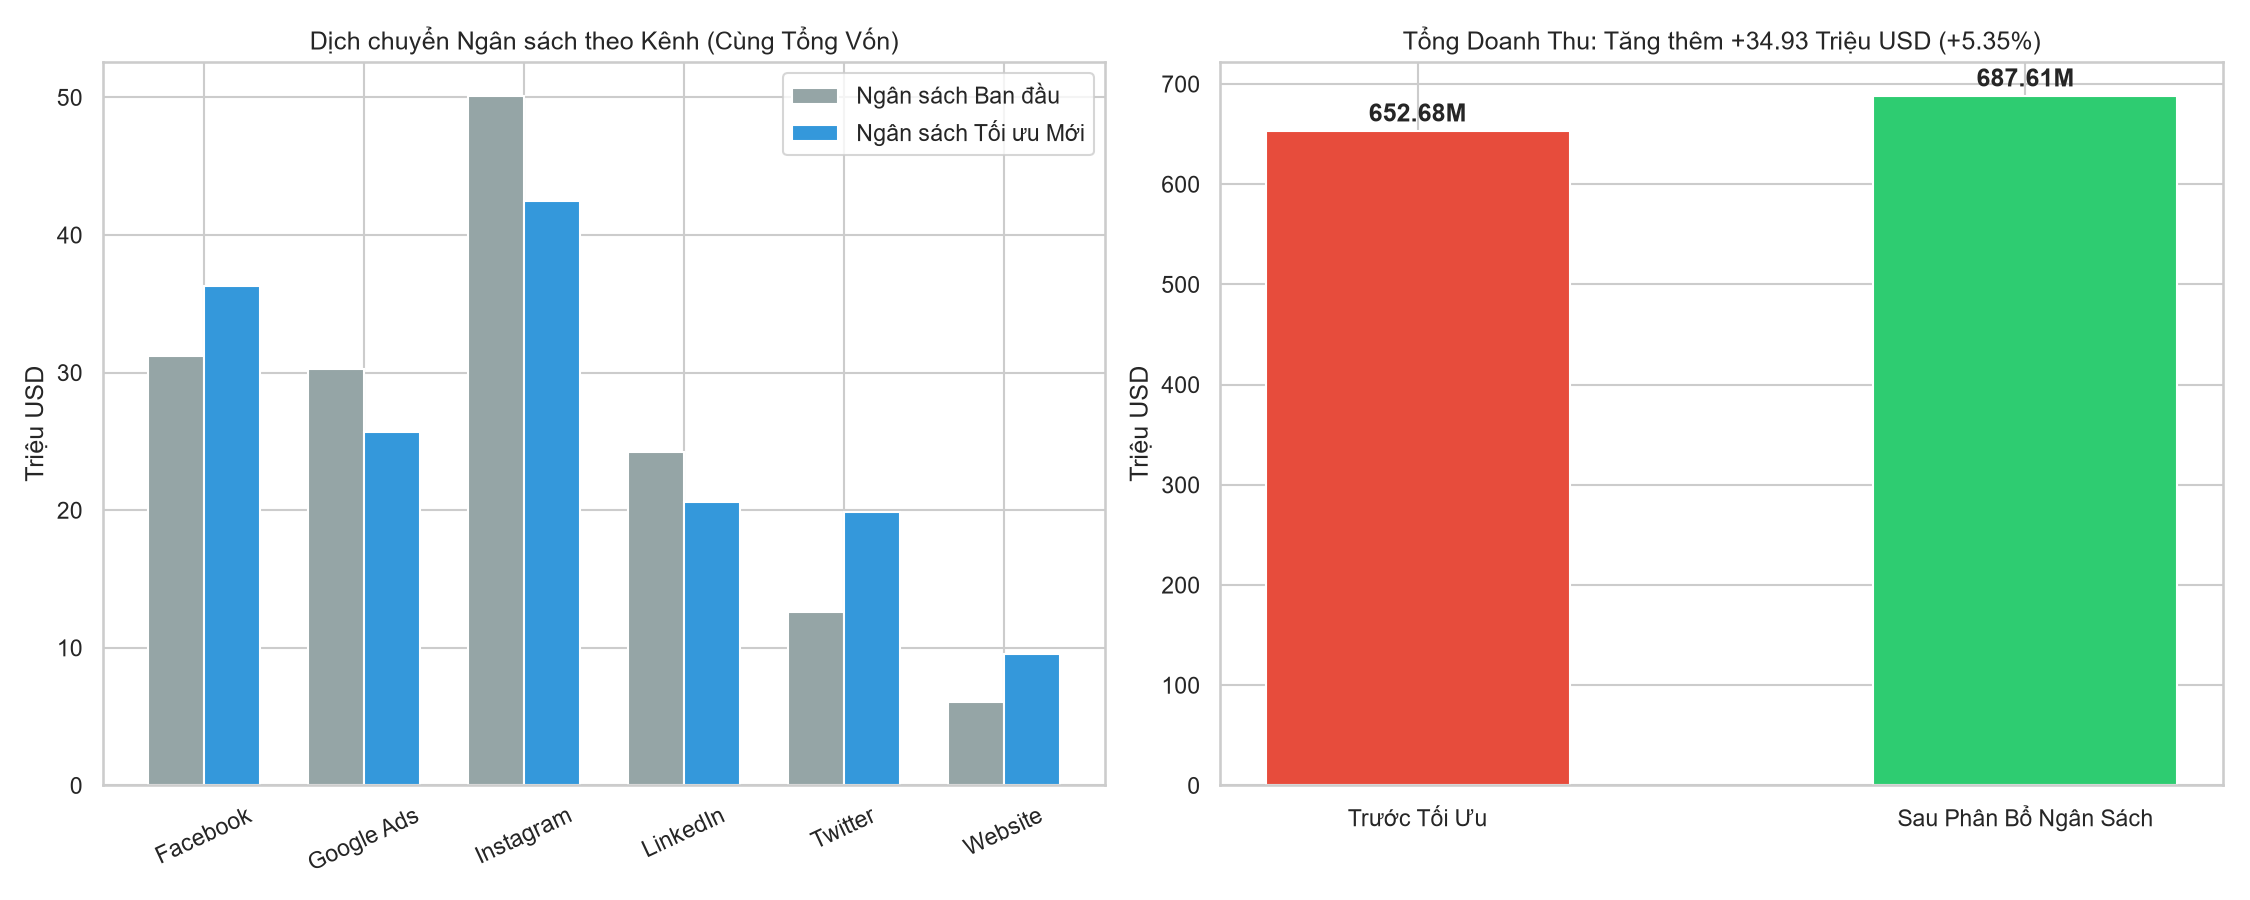
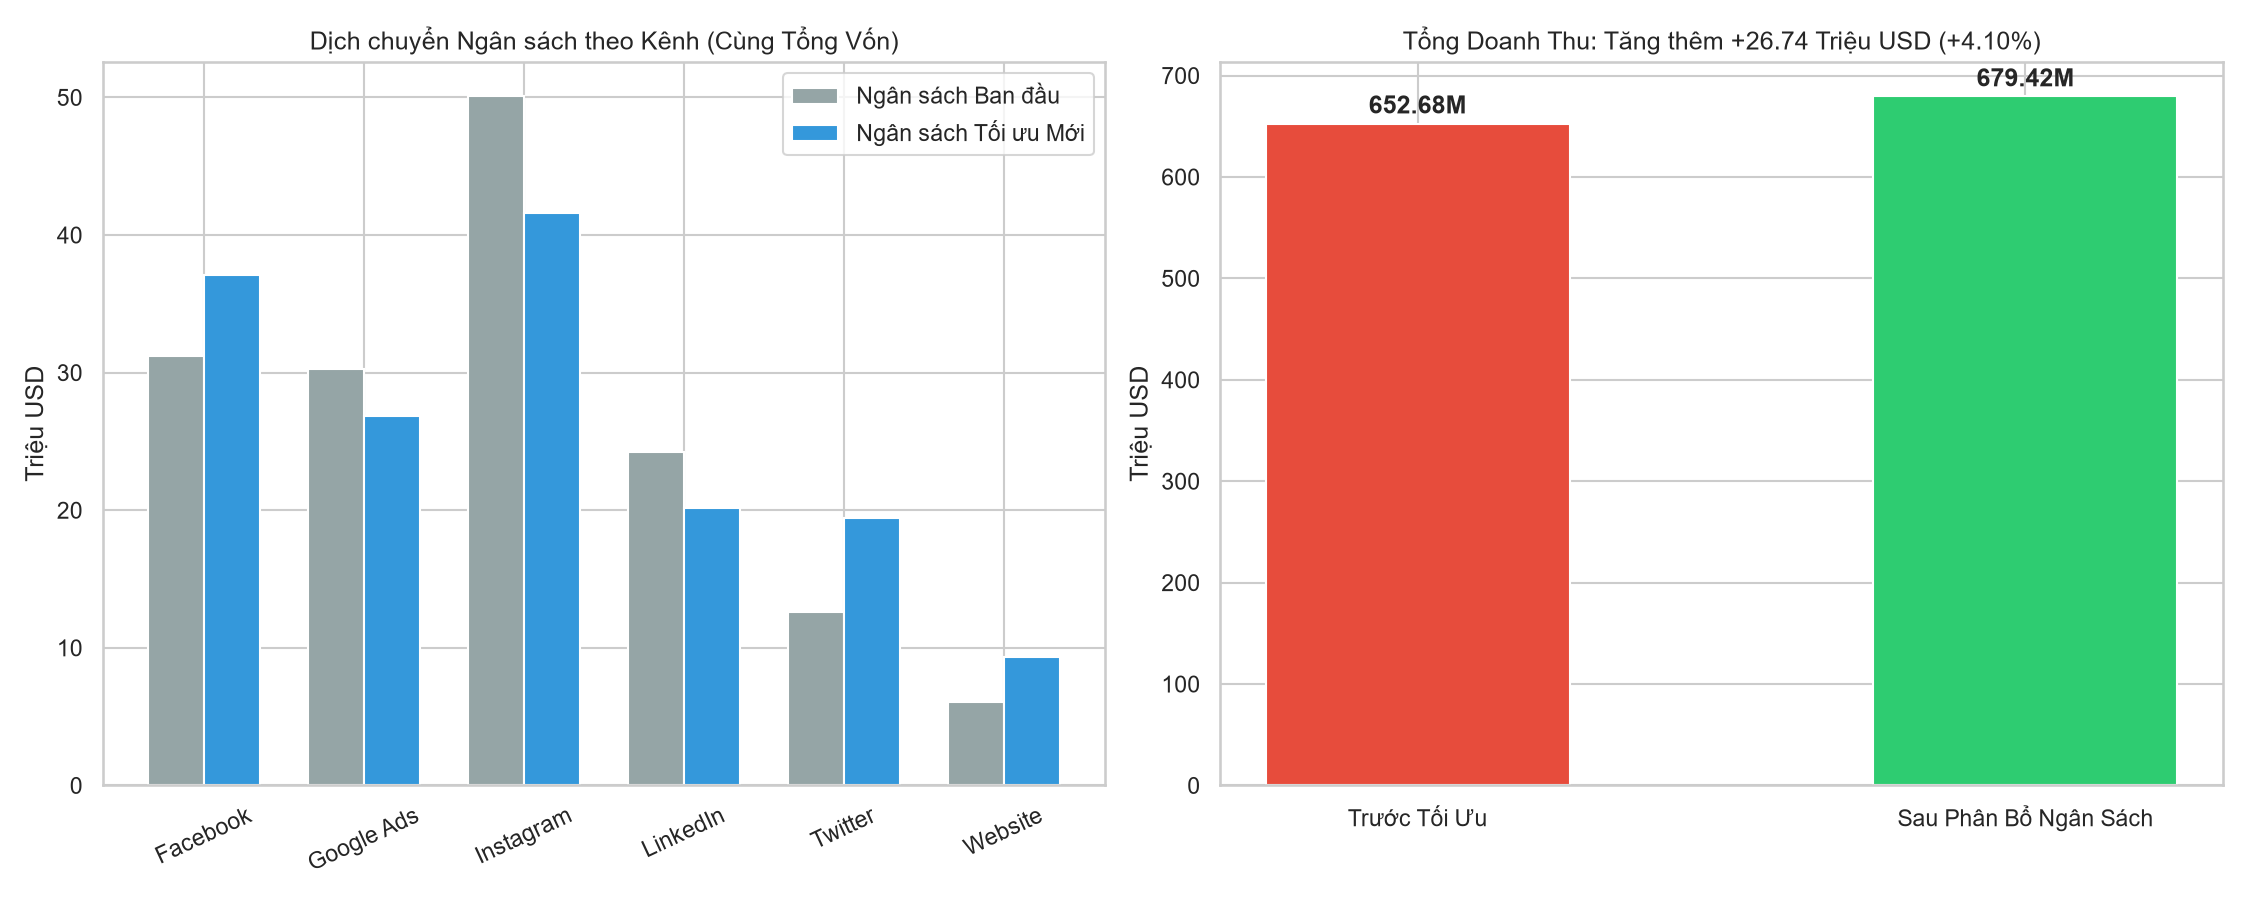
ok

diff --git a/postAllocate.py b/postAllocate.py
@@ -7,7 +7,6 @@ from sklearn.preprocessing import OneHotEncoder, StandardScaler
 from sklearn.compose import ColumnTransformer
 from sklearn.pipeline import Pipeline
 from sklearn.ensemble import RandomForestClassifier
-from sklearn.metrics import accuracy_score, roc_auc_score, classification_report
 
 # 1. Đọc dữ liệu và tổng hợp theo chu kỳ Tuần (đồng bộ với analyticalOverview.py)
 df = pd.read_csv('media_all_channels_cleaned.csv')
@@ -27,16 +26,13 @@ weekly_df['ctr'] = weekly_df['clicks'] / weekly_df['impressions']
 weekly_df['cpm'] = (weekly_df['cost'] / weekly_df['impressions']) * 1000
 weekly_df['is_optimized'] = (weekly_df['roas'] > weekly_df['roas'].median()).astype(int)
 
-# 2. Huấn luyện mô hình phân loại trên dữ liệu Tuần (Không Data Leakage)
+# 2. Huấn luyện mô hình phân loại trên dữ liệu Tuần (Đồng bộ 100% với analyticalOverview.py)
 num_cols = ['cost', 'impressions', 'clicks', 'cpc', 'ctr', 'cpm']
 cat_cols = ['channel', 'campaign']
-
-# Định nghĩa X và y trước khi chia train/test
-X = weekly_df[num_cols + cat_cols]
-y = weekly_df['is_optimized']
+features = cat_cols + num_cols
 
 X_train, X_test, y_train, y_test = train_test_split(
-    X, y, test_size=0.2, random_state=42, stratify=y
+    weekly_df[features], weekly_df['is_optimized'], test_size=0.2, random_state=42, stratify=weekly_df['is_optimized']
 )
 
 preprocessor = ColumnTransformer([
@@ -48,17 +44,7 @@ model = Pipeline([
     ('prep', preprocessor),
     ('clf', RandomForestClassifier(n_estimators=150, max_depth=8, random_state=42))
 ])
-
-# Huấn luyện trên tập Train
 model.fit(X_train, y_train)
-
-# Đánh giá trên tập Test
-y_pred = model.predict(X_test)
-y_prob = model.predict_proba(X_test)[:, 1]
-print("=== ĐÁNH GIÁ MÔ HÌNH TRÊN TẬP TEST ===")
-print(f"Accuracy: {accuracy_score(y_test, y_pred):.4f}")
-print(f"ROC-AUC:  {roc_auc_score(y_test, y_prob):.4f}")
-print(classification_report(y_test, y_pred, target_names=['Chưa tối ưu (0)', 'Tối ưu (1)']))
 
 # 3. Tổng hợp 42 cặp Kênh + Chiến dịch & dự đoán xác suất tối ưu
 cc_df = df.groupby(['channel', 'campaign']).agg({
@@ -66,23 +52,24 @@ cc_df = df.groupby(['channel', 'campaign']).agg({
     'revenue': 'sum'
 }).reset_index()
 cc_df['roas'] = cc_df['revenue'] / cc_df['cost']
+cc_df['is_optimized'] = (cc_df['roas'] > cc_df['roas'].median()).astype(int)
 
 cc_weekly = weekly_df.groupby(['channel', 'campaign'])[num_cols].mean().reset_index()
-cc_df['opt_prob'] = model.predict_proba(cc_weekly[num_cols + cat_cols])[:, 1]
+cc_df['opt_prob'] = model.predict_proba(cc_weekly[features])[:, 1]
 
-# 4. Mô phỏng Phân bổ Ngân sách GIỮ NGUYÊN TỔNG VỐN (Có tính Hiệu suất biên giảm dần)
+# 4. Mô phỏng Phân bổ Ngân sách GIỮ NGUYÊN TỔNG VỐN (Đồng bộ quy tắc kép & Hiệu suất biên giảm dần)
 total_initial_cost = cc_df['cost'].sum()
 total_initial_rev = cc_df['revenue'].sum()
 total_initial_profit = total_initial_rev - total_initial_cost
 
-def get_weight_multiplier(prob):
-    if prob >= 0.70:
+def get_weight_multiplier(row):
+    if row['opt_prob'] >= 0.70 and row['is_optimized'] == 1:
         return 1.30  # Tăng 30% trọng số vốn
-    elif prob < 0.40:
+    elif row['opt_prob'] < 0.40 and row['is_optimized'] == 0:
         return 0.70  # Giảm 30% trọng số vốn
     return 1.00
 
-cc_df['raw_new_cost'] = cc_df['cost'] * cc_df['opt_prob'].apply(get_weight_multiplier)
+cc_df['raw_new_cost'] = cc_df['cost'] * cc_df.apply(get_weight_multiplier, axis=1)
 
 # Chuẩn hóa lại để Tổng Ngân sách Mới == Tổng Ngân sách Ban đầu
 cc_df['new_cost'] = cc_df['raw_new_cost'] * (total_initial_cost / cc_df['raw_new_cost'].sum())
@@ -130,5 +117,5 @@ for i, v in enumerate([total_initial_rev/1e6, total_new_rev/1e6]):
     axes[1].text(i, v + 10, f"{v:,.2f}M", ha='center', fontweight='bold')
 
 plt.tight_layout()
-plt.savefig('budget_reallocation_simulation2.png', dpi=150)
+plt.savefig('budget_reallocation_simulation.png', dpi=150)
 plt.show()

diff --git a/postAllocate1.py b/postAllocate1.py
@@ -114,5 +114,5 @@ for i, v in enumerate([total_initial_rev/1e6, total_new_rev/1e6]):
     axes[1].text(i, v + 10, f"{v:,.2f}M", ha='center', fontweight='bold')
 
 plt.tight_layout()
-plt.savefig('budget_reallocation_simulation.png', dpi=150)
+plt.savefig('budget_reallocation_simulation2.png', dpi=150)
 plt.show()
